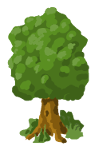
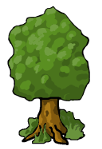
Added new tree (tree 2)

diff --git a/mists-game/src/main/java/com/nkoiv/mists/game/libraries/LibLoader.java b/mists-game/src/main/java/com/nkoiv/mists/game/libraries/LibLoader.java
@@ -244,9 +244,14 @@ public class LibLoader {
         Image woodsBackground = new Image("/images/pocmap.png");
         LocationTemplate woods = new LocationTemplate(3, "Woods", woodsBackground.getWidth(), woodsBackground.getHeight());
         woods.map = new BGMap(woodsBackground);
-        for (int i = 0; i<25;i++) {
+        for (int i = 0; i<10;i++) {
             //Make a bunch of trees
             Structure tree = Mists.structureLibrary.create("Tree1");
+            woods.mobs.add(tree);
+        }
+        for (int i = 0; i<10;i++) {
+            //Make a bunch of trees
+            Structure tree = Mists.structureLibrary.create("Tree2");
             woods.mobs.add(tree);
         }
         for (int i = 0; i<10;i++) {
